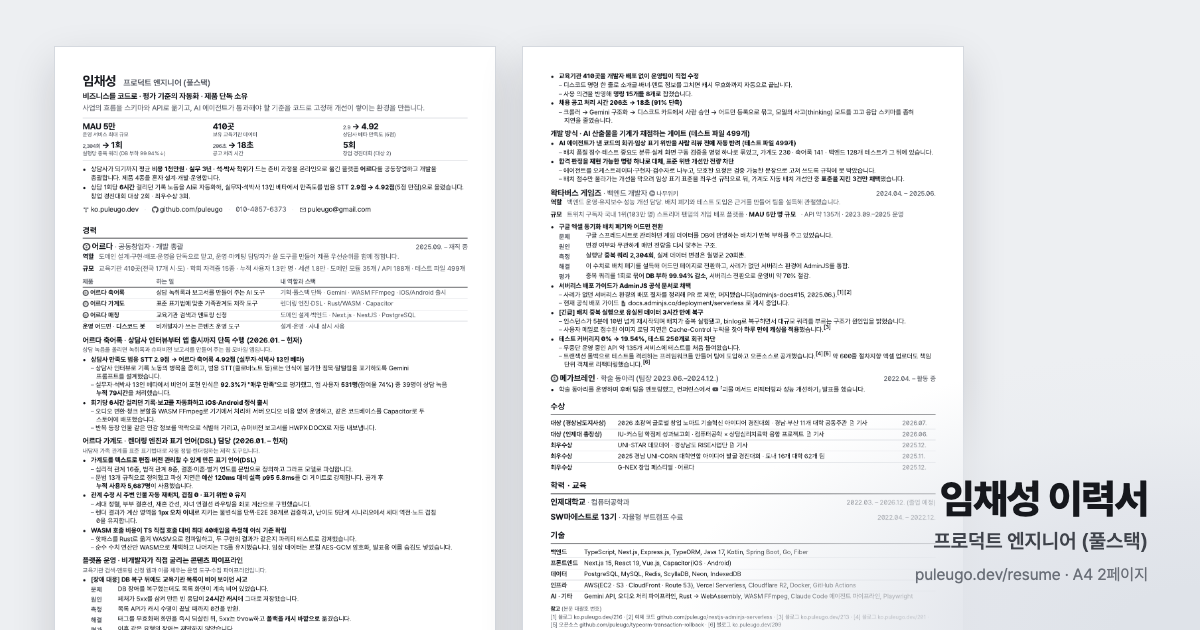
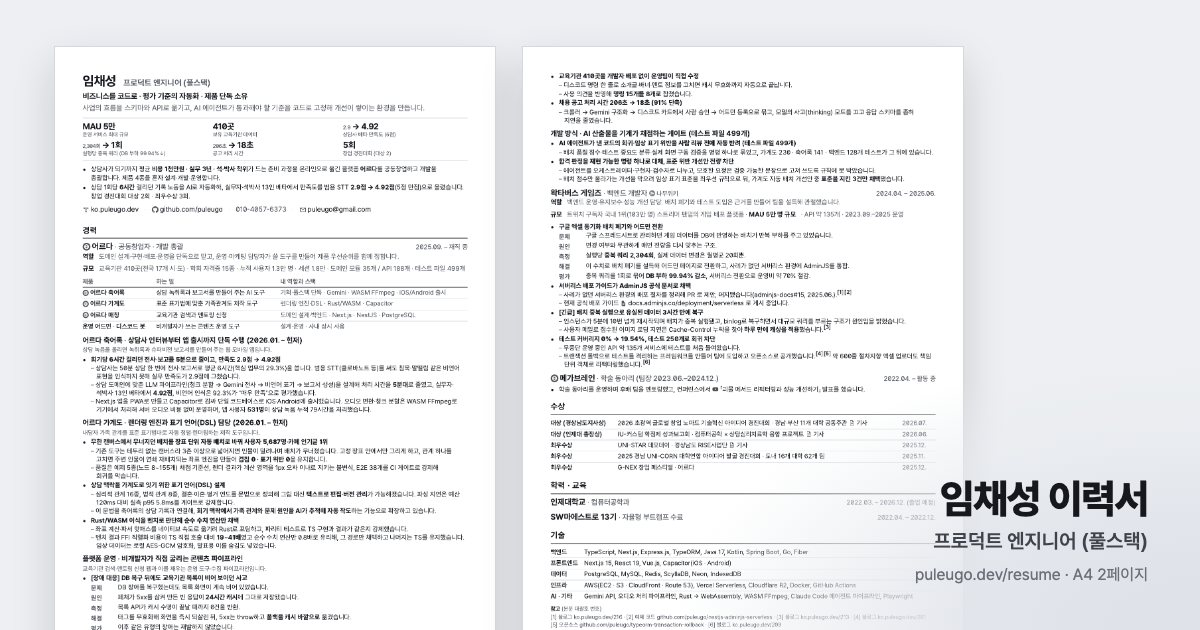
refactor: 축어록·가계도를 문제→설계→성과 서사로 재작성
- 축어록: 두 항목을 하나로 통합. 6시간 페인포인트 → 범용 STT 한계 → LLM 파이프라인 설계로 5분 단축 → 만족도 4.92, PWA·Capacitor 출시, WASM FFmpeg 온디바이스 처리
- 가계도: 기존 무한 캔버스 도구의 배치 붕괴 문제와 장표 단위 자동 배치라는 차별점, 품질 게이트, 사용자 5,687명·카페 인기글 1위를 앞세움
- DSL: 문법 규칙 수 대신 만든 이유(상담 맥락 기반 AI 자동 작도 확장)를 명시
- Rust/WASM: 왜 시도했고 벤치(FFI 19~41배)로 어떤 기준에 따라 일부만 채택했는지 서술

Claude-Session: https://claude.ai/code/session_01W7x6f6aizACV8L1Ey8iNMM

Changed region(s): [[0.0617, 0.5429, 0.4008, 1.0]]

diff --git a/resume/index.html b/resume/index.html
@@ -363,15 +363,11 @@
 		<strong>어르다 축어록 · 상담사 인터뷰부터 앱 출시까지 단독 수행 (2026.01. – 현재)</strong>
 		<p class="system-line">상담 녹음을 올리면 <t data-x="축어록">녹취록</t>과 슈퍼비전 보고서를 만들어 주는 웹·모바일 앱입니다.</p>
 		<ul>
-			<li class="task"><b>상담사 만족도 범용 STT 2.9점 → 어르다 축어록 <b>4.92점</b> (실무자·석박사 13인 베타)</b>
+			<li class="task"><b>회기당 <b>6시간</b> 걸리던 전사·보고를 <b>5분</b>으로 줄이고, 만족도 2.9점 → 4.92점</b>
 				<ul class="how">
-					<li>상담사 인터뷰로 기록 노동의 병목을 좁히고, 범용 STT(클로바노트 등)로는 인식이 불가한 침묵·말떨림을 표기하도록 Gemini 프롬프트를 설계했습니다.</li>
-					<li>실무자·석박사 13인 베타에서 비언어 표현 인식은 <b>92.3%가 "매우 만족"</b>으로 평가했고, 앱 사용자 <b>531명</b>(참여율 74%) 중 39명이 상담 녹음 <b>누적 79시간</b>을 처리했습니다.</li>
-				</ul></li>
-			<li class="task"><b>회기당 <b>6시간</b> 걸리던 기록·보고를 자동화하고 <b>iOS·Android 정식 출시</b></b>
-				<ul class="how">
-					<li>오디오 변환·청크 분할을 WASM FFmpeg로 기기에서 처리해 서버 오디오 비용 없이 운영하고, 같은 코드베이스를 Capacitor로 두 스토어에 배포했습니다.</li>
-					<li>반복 등장 인물 같은 민감 정보를 맥락으로 식별해 가리고, 슈퍼비전 보고서를 HWPX·DOCX로 자동 내보냅니다.</li>
+					<li>상담사는 50분 상담 한 번에 전사·보고서로 평균 6시간(핵심 업무의 29.3%)을 씁니다. 범용 STT(클로바노트 등)를 써도 침묵·말떨림 같은 비언어 표현을 인식하지 못해 실무 만족도가 2.9점에 그쳤습니다.</li>
+					<li>상담 도메인에 맞춘 LLM 파이프라인(청크 분할 → Gemini 전사 → 비언어 표기 → 보고서 생성)을 설계해 처리 시간을 <b>5분대</b>로 줄였고, 실무자·석박사 13인 베타에서 <b>4.92점</b>, 비언어 인식은 92.3%가 "매우 만족"으로 평가했습니다.</li>
+					<li>Next.js 앱을 PWA로 만들고 Capacitor로 감싸 단일 코드베이스로 iOS·Android에 출시했습니다. 오디오 변환·청크 분할은 WASM FFmpeg로 기기에서 처리해 서버 오디오 비용 없이 운영하며, 앱 사용자 <b>531명</b>이 상담 녹음 누적 79시간을 처리했습니다.</li>
 				</ul></li>
 			</ul>
 	</div>
@@ -380,20 +376,20 @@
 		<strong>어르다 가계도 · 렌더링 엔진과 표기 언어(DSL) 담당 (2026.01. – 현재)</strong>
 		<p class="system-line">내담자 가족 관계를 표준 표기법대로 자동 정렬·렌더링하는 제작 도구입니다.</p>
 		<ul>
-			<li class="task"><b>가계도를 <b>텍스트로 편집·버전 관리</b>할 수 있게 만든 표기 언어(DSL)</b>
+			<li class="task"><b>무한 캔버스에서 무너지던 배치를 <b>장표 단위 자동 배치</b>로 바꿔 사용자 <b>5,687명</b>·카페 인기글 1위</b>
 				<ul class="how">
-					<li>심리적 관계 16종, 법적 관계 8종, 결혼·이혼·별거 연도를 문법으로 정의하고 그래프 모델로 파싱합니다.</li>
-					<li>문법 13개 규칙으로 정의했고 파싱 지연은 <b>예산 120ms 대비 실측 p95 5.8ms</b>를 CI 게이트로 강제합니다. 공개 후 <b>누적 사용자 5,687명</b>이 사용했습니다.</li>
+					<li>기존 도구는 테두리 없는 캔버스라 3촌 이상으로 넓어지면 인물이 밀려나며 배치가 무너졌습니다. 고정 장표 안에서만 그리게 하고, 관계 하나를 고치면 주변 인물이 연쇄 재배치되는 좌표 엔진을 만들어 <b>겹침 0 · 표기 위반 0</b>을 유지합니다.</li>
+					<li>품질은 예제 5종(노드 8~155개) 채점 기준선, 렌더 결과가 계산 영역을 1px 오차 이내로 지키는 불변식, E2E 38개를 CI 게이트로 강제해 회귀를 막습니다.</li>
 				</ul></li>
-			<li class="task"><b>관계 수정 시 주변 인물 자동 재배치, <b>겹침 0 · 표기 위반 0</b> 유지</b>
+			<li class="task"><b>상담 맥락을 가계도로 잇기 위한 표기 언어(DSL) 설계</b>
 				<ul class="how">
-					<li>세대 정렬, 부부 결혼선, 재혼 간선, 자녀 연결선 라우팅을 좌표 계산으로 구현했습니다.</li>
-					<li>렌더 결과가 계산 영역을 <b>1px 오차 이내</b>로 지키는 불변식을 단위·E2E 38개로 검증하고, 난이도 5단계 시나리오에서 세대 역전·노드 겹침 0을 유지합니다.</li>
+					<li>심리적 관계 16종, 법적 관계 8종, 결혼·이혼·별거 연도를 문법으로 정의해 그림 대신 <b>텍스트로 편집·버전 관리</b>가 가능해졌습니다. 파싱 지연은 예산 120ms 대비 실측 p95 5.8ms를 게이트로 강제합니다.</li>
+					<li>이 문법을 축어록의 상담 기록과 연결해, <b>회기 맥락에서 가족 관계와 문제 원인을 AI가 추적해 자동 작도</b>하는 기능으로 확장하고 있습니다.</li>
 				</ul></li>
-			<li class="task"><b>WASM 호출 비용이 TS 직접 호출 대비 <b>최대 40배</b>임을 측정해 이식 기준 확립</b>
+			<li class="task"><b>Rust/WASM 이식을 벤치로 판단해 <b>순수 수치 연산만</b> 채택</b>
 				<ul class="how">
-					<li>핫패스를 Rust로 옮겨 WASM으로 컴파일하고, 두 구현의 결과가 같은지 파리티 테스트로 강제했습니다.</li>
-					<li>순수 수치 연산만 WASM으로 채택하고 나머지는 TS를 유지했습니다. 임상 데이터는 로컬 AES-GCM 암호화, 발표용 이름 숨김도 넣었습니다.</li>
+					<li>좌표 계산·파서 핫패스를 네이티브 속도로 옮기려 Rust로 포팅하고, 파리티 테스트로 TS 구현과 결과가 같은지 강제했습니다.</li>
+					<li>벤치 결과 FFI 직렬화 비용이 TS 직접 호출 대비 <b>19~41배</b>였고 순수 수치 연산만 0.8배로 유리해, 그 경로만 채택하고 나머지는 TS를 유지했습니다. 임상 데이터는 로컬 AES-GCM 암호화, 발표용 이름 숨김도 넣었습니다.</li>
 				</ul></li>
 			</ul>
 	</div>
